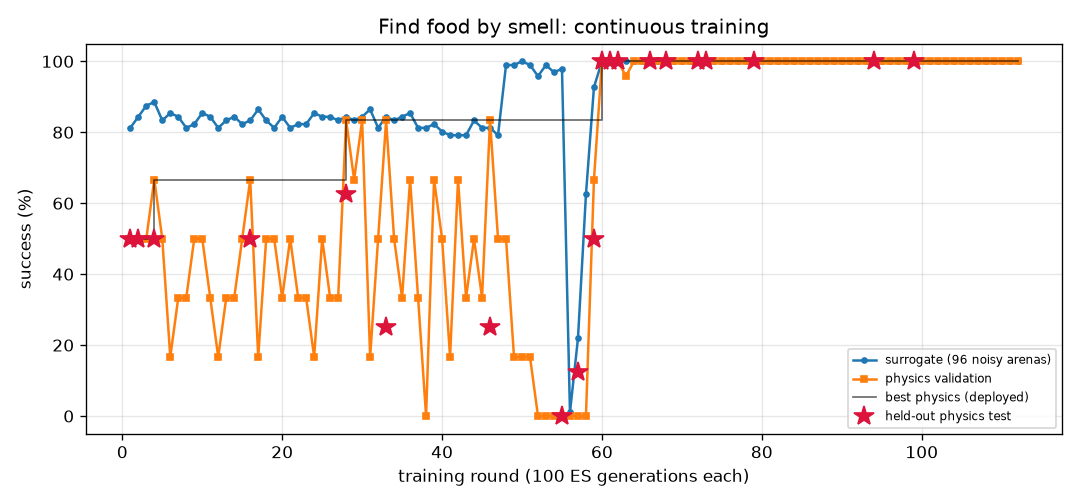
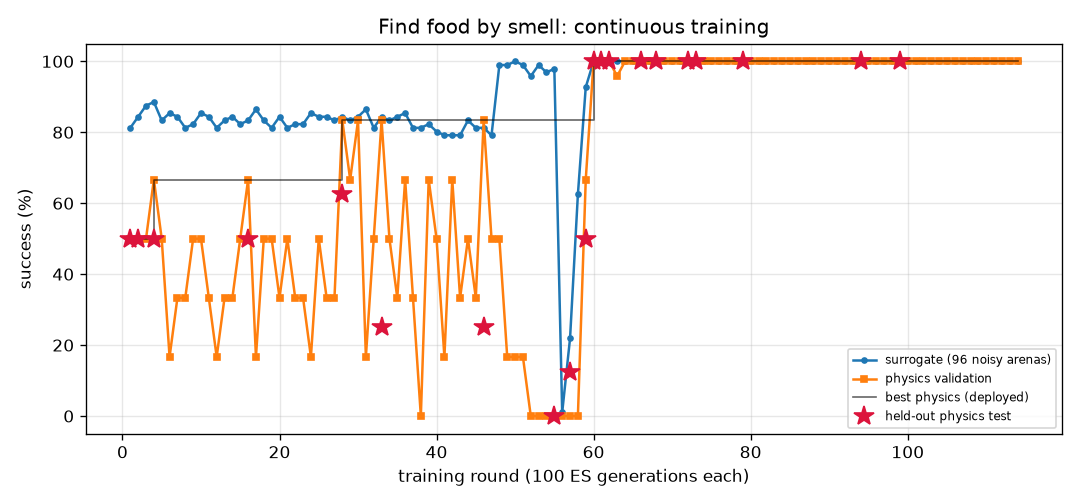
FlyLab: continuous training progress
- walk_forward: optimal, physics val 100% of 24, round 130
- turn: optimal, physics val 100% of 24, round 560
- goto: optimal, physics val 100% of 24, round 121
- odor_seek: optimal, physics val 100% of 24, round 114
- odor_avoid: optimal, physics val 100% of 24, round 548
- light_seek: optimal, physics val 100% of 24, round 306
- light_avoid: optimal, physics val 100% of 24, round 276

diff --git a/projects/09_flylab/training/turn/REPORT.md b/projects/09_flylab/training/turn/REPORT.md
@@ -1,14 +1,14 @@
 # Turn in place (`turn`) — training report
 
-*Auto-generated by `train_brains.py`, last updated 2026-10-20T11:18:12.*
+*Auto-generated by `train_brains.py`, last updated 2026-10-20T12:17:07.*
 
 ![curve](curve.png)
 
 | | |
 |---|---|
-| rounds | 547 |
-| ES generations | 54700 |
-| physics runs | 13374 |
+| rounds | 560 |
+| ES generations | 56000 |
+| physics runs | 13686 |
 | status | **optimal** |
 | best brain | round 80: physics validation **100%** on 24 arenas, surrogate 100% |
 | held-out physics test | **97%** on 32 unseen arenas (95% CI 84%-99%) (errors: [1.6, 3.3, 6.3, 3.7, 1.1, 0.4, 2.4, 2.9, 0.1, 2.6, 0.5, 2.7, 1.5, 3.1, 4.5, 0.2, 0.5, 1.1, 2.0, 4.4, 2.8, 3.2, 0.3, 2.2, 0.5, 3.0, 0.3, 5.4, 0.4, 1.0, 4.7, 10.7]) |
@@ -17,19 +17,6 @@ Physics error per arena: deg from target heading (< 20 = success).
 
 | round | level | gens | sigma | surrogate | physics val | val errors | test | note |
 |---:|---:|---:|---:|---:|---:|---|---:|---|
-| 508 | 3 | 50800 | 0.025 | 98% | 96% | [8.1, 8.7, 0.0, 1.2, 8.3, 1.6, 4.7, 1.0, 2.8, 1.9, 3.9, 1.1, 3.5, 2.8, 2.8, 2.2, 0.6, 1.2, 2.2, 2.0, 5.5, 0.6, 2.4, 3.8] |  | restart from best |
-| 509 | 3 | 50900 | 0.024 | 98% | 75% | [8.0, 9.3, 3.4, 0.7, 2.4, 2.1, 4.0, 1.5, 3.5, 0.1, 3.6, 2.3, 1.3, 1.6, 2.6, 1.3, 2.2, 0.3, 1.8, 2.8, 7.2, 0.4, 2.9, 3.6] |  |  |
-| 510 | 3 | 51000 | 0.025 | 100% | 83% | [6.0, 2.8, 1.4, 0.4, 2.9, 2.6, 5.9, 4.5, 5.9, 14.9, 4.1, 0.4, 0.8, 0.9, 4.3, 1.9, 0.8, 2.2, 2.3, 2.2, 3.5, 1.0, 5.7, 5.2] |  |  |
-| 511 | 3 | 51100 | 0.024 | 100% | 88% | [4.6, 4.7, 2.6, 1.1, 5.2, 0.3, 4.0, 1.8, 5.1, 1.2, 3.8, 3.0, 0.6, 0.5, 4.1, 1.0, 1.0, 0.8, 1.4, 0.6, 4.4, 0.6, 4.9, 6.1] |  |  |
-| 512 | 3 | 51200 | 0.024 | 100% | 83% | [7.0, 3.2, 1.2, 2.8, 4.8, 0.8, 4.5, 8.4, 5.8, 1.2, 5.8, 0.4, 1.9, 0.1, 4.0, 1.0, 0.4, 0.4, 3.9, 6.3, 2.9, 2.6, 6.0, 7.2] |  | restart from best |
-| 513 | 3 | 51300 | 0.024 | 98% | 75% | [2.3, 1.2, 8.3, 0.6, 15.8, 0.4, 5.4, 8.7, 6.4, 1.0, 4.7, 0.6, 1.9, 2.2, 4.6, 4.9, 0.6, 3.7, 13.6, 11.4, 4.5, 1.4, 4.6, 9.3] |  |  |
-| 514 | 3 | 51400 | 0.025 | 99% | 100% | [5.2, 7.3, 5.9, 1.5, 0.7, 1.1, 5.8, 4.1, 5.2, 1.6, 2.9, 0.5, 2.7, 3.1, 3.5, 1.6, 0.2, 1.6, 1.0, 2.3, 3.4, 1.2, 4.8, 1.9] |  |  |
-| 515 | 3 | 51500 | 0.025 | 99% | 75% | [7.1, 8.0, 0.4, 0.7, 5.6, 2.4, 3.9, 3.1, 4.8, 0.4, 5.5, 2.5, 0.6, 0.0, 5.1, 0.1, 1.8, 1.2, 0.7, 0.3, 6.6, 1.1, 4.7, 5.3] |  |  |
-| 516 | 3 | 51600 | 0.025 | 100% | 79% | [5.6, 2.8, 2.0, 0.5, 11.2, 0.8, 5.7, 7.4, 6.2, 1.9, 4.6, 1.1, 1.3, 1.8, 3.8, 10.8, 0.6, 1.3, 8.6, 1.8, 4.3, 1.7, 5.1, 2.3] |  | restart from best |
-| 517 | 3 | 51700 | 0.024 | 99% | 71% | [7.7, 0.4, 7.2, 1.7, 4.6, 1.9, 5.9, 0.3, 7.5, 0.3, 5.7, 0.3, 2.1, 2.8, 4.9, 13.3, 0.0, 4.5, 0.3, 0.2, 4.5, 0.5, 5.3, 7.3] |  |  |
-| 518 | 3 | 51800 | 0.025 | 99% | 88% | [5.4, 8.8, 4.6, 4.1, 2.7, 3.6, 4.2, 3.8, 3.4, 0.6, 3.6, 1.6, 3.3, 2.5, 3.3, 1.4, 1.8, 0.3, 0.2, 0.2, 4.1, 0.5, 4.2, 5.4] |  |  |
-| 519 | 3 | 51900 | 0.025 | 99% | 100% | [8.5, 8.7, 8.6, 4.3, 2.3, 2.6, 1.6, 0.4, 3.0, 0.1, 1.9, 2.5, 4.9, 3.1, 2.1, 3.5, 2.8, 3.9, 3.0, 2.8, 5.6, 1.3, 2.7, 2.7] |  |  |
-| 520 | 3 | 52000 | 0.025 | 98% | 79% | [9.3, 11.3, 9.4, 2.7, 2.4, 1.0, 2.8, 4.3, 3.5, 1.0, 1.5, 3.6, 1.2, 4.2, 0.9, 2.8, 3.5, 1.8, 1.8, 3.0, 7.6, 0.6, 3.8, 3.0] |  | restart from best |
 | 521 | 3 | 52100 | 0.024 | 99% | 71% | [0.3, 1.2, 6.0, 0.3, 3.2, 118.3, 7.4, 9.8, 7.2, 1.4, 4.9, 2.0, 1.1, 1.1, 6.5, 1.6, 2.1, 3.0, 1.0, 1.9, 0.8, 2.4, 5.8, 5.2] |  |  |
 | 522 | 3 | 52200 | 0.025 | 99% | 100% | [6.1, 8.1, 1.0, 0.9, 4.5, 0.7, 2.5, 2.1, 3.5, 0.1, 2.3, 0.4, 3.0, 2.2, 3.2, 1.1, 0.1, 0.8, 0.6, 1.8, 3.7, 0.5, 5.6, 2.6] |  |  |
 | 523 | 3 | 52300 | 0.025 | 99% | 83% | [3.4, 9.0, 2.2, 3.1, 4.8, 1.3, 5.2, 1.5, 3.4, 1.5, 4.4, 0.7, 1.8, 3.6, 4.3, 1.6, 0.8, 1.4, 1.8, 1.0, 5.0, 0.4, 3.0, 3.8] |  |  |
@@ -57,3 +44,16 @@ Physics error per arena: deg from target heading (< 20 = success).
 | 545 | 3 | 54500 | 0.024 | 99% | 88% | [6.3, 2.0, 1.9, 1.2, 1.6, 11.4, 5.6, 5.2, 4.7, 1.9, 3.6, 0.6, 0.4, 2.2, 3.4, 2.7, 0.4, 1.4, 1.3, 1.7, 5.3, 2.0, 5.2, 3.6] |  |  |
 | 546 | 3 | 54600 | 0.025 | 98% | 75% | [9.2, 5.9, 3.5, 1.6, 2.0, 1.3, 5.0, 1.4, 3.6, 0.8, 4.8, 1.2, 1.1, 3.4, 3.3, 2.0, 0.8, 1.5, 2.0, 3.5, 4.7, 0.2, 3.9, 4.8] |  |  |
 | 547 | 3 | 54700 | 0.025 | 99% | 92% | [5.7, 1.5, 5.7, 0.9, 0.4, 10.5, 6.3, 7.0, 6.2, 2.0, 4.9, 1.8, 0.2, 5.1, 4.0, 1.0, 1.7, 1.9, 1.1, 1.1, 2.2, 2.1, 6.7, 7.3] |  |  |
+| 548 | 3 | 54800 | 0.025 | 99% | 83% | [3.6, 1.2, 5.1, 0.3, 0.7, 1.9, 7.1, 7.3, 7.7, 1.9, 4.8, 3.0, 0.4, 0.4, 3.6, 3.9, 3.0, 4.6, 3.9, 2.4, 8.2, 3.0, 5.4, 9.2] |  | restart from best |
+| 549 | 3 | 54900 | 0.024 | 100% | 79% | [4.8, 3.3, 5.0, 0.2, 18.7, 1.6, 6.0, 9.0, 3.7, 0.4, 4.9, 0.3, 0.4, 3.3, 5.2, 11.7, 0.1, 2.2, 7.6, 4.5, 2.4, 1.1, 5.3, 6.6] |  |  |
+| 550 | 3 | 55000 | 0.024 | 100% | 88% | [8.2, 10.8, 9.9, 4.2, 3.0, 0.3, 3.6, 0.3, 3.3, 1.8, 2.3, 3.2, 3.5, 2.7, 3.3, 2.7, 3.5, 2.2, 1.7, 3.1, 7.4, 1.0, 2.3, 1.9] |  |  |
+| 551 | 3 | 55100 | 0.024 | 99% | 79% | [9.8, 9.2, 0.2, 1.5, 1.3, 2.0, 3.5, 4.0, 4.9, 0.5, 4.1, 3.5, 2.1, 4.6, 3.2, 1.9, 0.0, 0.9, 1.3, 1.1, 8.1, 2.3, 2.9, 4.6] |  |  |
+| 552 | 3 | 55200 | 0.025 | 99% | 75% | [0.5, 7.8, 0.3, 1.2, 1.1, 0.8, 5.4, 7.5, 6.1, 0.8, 3.9, 1.3, 1.6, 1.3, 3.6, 0.6, 0.3, 0.5, 1.0, 0.6, 5.2, 3.2, 5.2, 1.9] |  | restart from best |
+| 553 | 3 | 55300 | 0.024 | 99% | 71% | [7.9, 7.7, 0.7, 2.6, 2.6, 0.6, 5.4, 3.7, 4.6, 1.0, 4.4, 1.7, 1.9, 3.3, 4.2, 1.7, 2.8, 1.8, 1.9, 0.5, 4.4, 0.7, 4.4, 4.9] |  |  |
+| 554 | 3 | 55400 | 0.025 | 99% | 83% | [4.1, 7.6, 4.6, 2.5, 1.2, 3.7, 4.4, 2.2, 5.8, 0.2, 4.3, 1.0, 3.2, 4.0, 3.8, 2.3, 0.7, 1.8, 3.0, 1.9, 4.4, 0.2, 5.8, 2.7] |  |  |
+| 555 | 3 | 55500 | 0.025 | 99% | 88% | [8.8, 10.0, 2.3, 4.2, 2.2, 3.5, 3.3, 0.8, 2.0, 1.8, 3.1, 3.2, 2.8, 5.6, 2.6, 1.1, 3.0, 1.3, 0.4, 1.8, 5.6, 0.5, 3.3, 2.6] |  |  |
+| 556 | 3 | 55600 | 0.025 | 99% | 75% | [5.5, 7.0, 0.4, 2.1, 3.3, 1.6, 2.4, 0.2, 4.0, 1.3, 2.8, 1.5, 3.7, 3.8, 3.1, 1.9, 1.8, 0.2, 2.1, 0.8, 7.5, 0.7, 4.6, 3.8] |  | restart from best |
+| 557 | 3 | 55700 | 0.024 | 99% | 100% | [5.7, 9.7, 1.0, 2.6, 2.0, 2.3, 1.7, 1.5, 3.2, 1.4, 1.6, 1.9, 0.2, 4.7, 1.1, 2.9, 2.1, 2.7, 2.6, 2.8, 4.6, 0.2, 0.5, 0.8] |  |  |
+| 558 | 3 | 55800 | 0.025 | 99% | 88% | [2.9, 3.0, 7.0, 0.4, 16.1, 0.9, 8.3, 8.4, 7.7, 3.1, 5.1, 4.5, 0.7, 0.7, 4.8, 14.3, 4.8, 3.0, 8.6, 13.3, 1.6, 4.2, 7.3, 5.9] |  |  |
+| 559 | 3 | 55900 | 0.025 | 99% | 88% | [7.3, 3.4, 7.5, 3.0, 4.3, 0.2, 4.5, 6.0, 3.3, 0.0, 5.1, 1.1, 2.4, 0.7, 2.9, 0.5, 1.6, 2.1, 0.8, 1.9, 6.5, 3.9, 5.6, 6.5] |  |  |
+| 560 | 3 | 56000 | 0.025 | 99% | 83% | [1.2, 1.7, 1.4, 1.7, 1.6, 1.4, 6.5, 8.6, 5.4, 4.0, 4.2, 3.5, 4.4, 0.6, 5.5, 11.8, 3.8, 2.5, 2.1, 2.0, 3.4, 2.3, 6.5, 5.7] |  | restart from best |

diff --git a/projects/09_flylab/training/odor_avoid/REPORT.md b/projects/09_flylab/training/odor_avoid/REPORT.md
@@ -1,14 +1,14 @@
 # Escape a bad smell (`odor_avoid`) — training report
 
-*Auto-generated by `train_brains.py`, last updated 2026-10-20T09:00:18.*
+*Auto-generated by `train_brains.py`, last updated 2026-10-20T12:12:38.*
 
 ![curve](curve.png)
 
 | | |
 |---|---|
-| rounds | 542 |
-| ES generations | 54200 |
-| physics runs | 10314 |
+| rounds | 548 |
+| ES generations | 54800 |
+| physics runs | 10458 |
 | status | **optimal** |
 | best brain | round 373: physics validation **100%** on 24 arenas, surrogate 97% |
 | held-out physics test | **97%** on 32 unseen arenas (95% CI 84%-99%) (errors: [62.0, 57.4, 62.6, 61.9, 59.0, 61.6, 56.5, 60.7, 31.7, 60.9, 63.1, 57.1, 61.1, 62.1, 61.5, 60.2, 62.2, 55.2, 62.1, 54.2, 61.3, 62.0, 58.0, 61.9, 59.8, 56.5, 56.3, 56.4, 56.3, 57.7, 61.9, 32.4]) |
@@ -17,12 +17,6 @@ Physics error per arena: mm gained away from source (> 6 without first approachi
 
 | round | level | gens | sigma | surrogate | physics val | val errors | test | note |
 |---:|---:|---:|---:|---:|---:|---|---:|---|
-| 503 | 3 | 50300 | 0.026 | 97% | 96% | [63.4, 57.7, 57.0, 61.3, 61.8, 60.7, 62.1, 48.0, 59.9, 60.3, 61.8, 62.0, 54.8, 58.6, 41.4, 62.7, 61.8, 62.3, 55.3, 57.1, 62.5, 60.3, 58.1, 60.0] |  |  |
-| 504 | 3 | 50400 | 0.026 | 94% | 96% | [63.8, 56.0, 55.9, 61.1, 62.4, 62.0, 61.8, 54.0, 60.8, 51.5, 61.0, 61.0, 51.9, 55.3, 32.9, 60.7, 61.9, 61.7, 54.7, 56.1, 61.2, 60.5, 61.3, 48.7] |  |  |
-| 505 | 3 | 50500 | 0.028 | 95% | 96% | [63.1, 61.3, 55.1, 61.0, 61.8, 60.1, 62.1, 31.0, 60.0, 40.5, 56.3, 61.6, 48.2, 55.3, 36.2, 60.4, 62.1, 58.2, 52.0, 55.6, 61.4, 50.0, 61.1, 44.9] |  | restart from best |
-| 506 | 3 | 50600 | 0.026 | 97% | 96% | [62.7, 60.9, 56.0, 61.6, 61.8, 62.3, 60.7, 62.8, 61.9, 54.9, 34.5, 61.5, 47.5, 54.9, 30.0, 61.5, 62.0, 61.4, 51.9, 58.0, 61.5, 62.9, 60.0, 63.1] |  |  |
-| 507 | 3 | 50700 | 0.026 | 95% | 100% | [62.9, 61.3, 56.0, 61.2, 61.2, 61.8, 61.7, 62.6, 61.7, 60.1, 53.5, 61.5, 52.2, 55.5, 29.4, 62.3, 62.1, 61.2, 53.2, 61.1, 62.2, 62.2, 60.4, 62.6] |  |  |
-| 508 | 3 | 50800 | 0.027 | 97% | 100% | [63.5, 61.2, 56.1, 59.3, 62.3, 63.1, 61.8, 62.1, 61.1, 62.6, 62.3, 62.3, 54.1, 56.1, 48.6, 62.5, 62.2, 63.0, 55.4, 60.9, 62.1, 63.1, 58.6, 62.5] |  |  |
 | 509 | 3 | 50900 | 0.026 | 96% | 100% | [62.1, 60.2, 55.8, 60.2, 62.2, 62.2, 62.1, 44.2, 62.0, 61.3, 62.1, 62.3, 55.2, 55.9, 51.7, 61.7, 62.6, 61.5, 55.0, 55.2, 62.1, 62.8, 59.8, 61.9] |  | restart from best |
 | 510 | 3 | 51000 | 0.026 | 95% | 100% | [62.7, 60.9, 57.0, 61.5, 42.3, 59.6, 61.0, 35.8, 60.5, 28.2, 23.0, 61.2, 52.0, 55.4, 41.4, 59.1, 61.1, 48.0, 50.2, 56.2, 61.3, 37.5, 61.1, 59.0] |  |  |
 | 511 | 3 | 51100 | 0.027 | 97% | 100% | [63.5, 61.2, 58.1, 58.6, 61.1, 62.4, 61.6, 31.4, 60.8, 61.5, 61.5, 61.7, 54.6, 58.4, 46.3, 62.0, 61.4, 62.2, 54.8, 57.7, 61.5, 53.6, 58.4, 49.3] |  |  |
@@ -57,3 +51,9 @@ Physics error per arena: mm gained away from source (> 6 without first approachi
 | 540 | 3 | 54000 | 0.026 | 93% | 96% | [61.6, 60.3, 55.8, 59.6, 60.8, 61.7, 60.6, 29.0, 61.8, 43.6, 59.5, 61.5, 51.6, 56.8, 32.6, 62.2, 61.8, 62.1, 54.6, 59.3, 62.0, 61.2, 59.6, 62.4] |  |  |
 | 541 | 3 | 54100 | 0.028 | 98% | 96% | [60.9, 59.7, 56.0, 58.7, 61.0, 60.6, 61.5, 12.9, 61.3, 45.7, 59.1, 61.2, 51.6, 55.5, 35.1, 60.6, 61.5, 57.5, 55.0, 56.5, 61.8, 59.5, 58.8, 32.4] |  | restart from best |
 | 542 | 3 | 54200 | 0.026 | 95% | 96% | [61.8, 60.5, 57.7, 60.0, 61.1, 62.4, 62.1, 57.2, 62.2, 60.4, 61.1, 60.8, 52.0, 55.3, 44.1, 61.7, 61.5, 62.3, 54.7, 60.1, 61.5, 61.9, 57.5, 62.4] |  |  |
+| 543 | 3 | 54300 | 0.027 | 94% | 96% | [62.7, 59.6, 58.1, 59.9, 62.5, 61.7, 60.3, 60.8, 61.9, 61.2, 62.1, 61.8, 55.2, 57.9, 52.0, 62.1, 62.1, 61.7, 55.1, 57.3, 62.3, 62.2, 59.8, 62.1] |  |  |
+| 544 | 3 | 54400 | 0.028 | 94% | 100% | [61.1, 57.5, 56.0, 57.0, 60.2, 62.1, 61.4, 52.2, 62.0, 60.0, 60.0, 61.8, 51.7, 56.2, 46.4, 61.7, 61.7, 62.3, 54.9, 58.6, 62.0, 55.3, 59.3, 49.3] |  |  |
+| 545 | 3 | 54500 | 0.028 | 94% | 96% | [61.6, 58.9, 56.0, 60.7, 61.4, 60.3, 61.7, 43.9, 61.9, 60.3, 61.4, 61.9, 52.3, 56.4, 39.2, 61.9, 62.3, 60.3, 54.9, 56.7, 61.9, 61.0, 59.5, 56.9] |  | restart from best |
+| 546 | 3 | 54600 | 0.026 | 97% | 96% | [63.2, 58.0, 56.0, 59.3, 62.1, 60.4, 61.8, 15.0, 60.4, 58.5, 62.1, 62.1, 54.4, 56.0, 45.0, 61.7, 62.3, 61.3, 55.0, 56.2, 62.0, 59.7, 57.9, 54.9] |  |  |
+| 547 | 3 | 54700 | 0.026 | 94% | 96% | [59.8, 56.5, 55.8, 56.5, 60.0, 60.7, 60.7, 24.4, 60.9, 36.8, 18.5, 60.6, 50.2, 55.4, 38.4, 59.3, 60.9, 60.4, 52.6, 59.1, 61.0, 46.8, 58.6, 56.7] |  |  |
+| 548 | 3 | 54800 | 0.028 | 95% | 96% | [60.8, 60.3, 56.3, 57.0, 46.6, 52.7, 61.5, 57.5, 61.5, 30.6, 13.9, 60.8, 50.6, 55.5, 15.6, 57.2, 61.2, 49.0, 49.6, 59.4, 61.2, 59.2, 60.3, 58.4] |  |  |

diff --git a/projects/09_flylab/training/odor_seek/REPORT.md b/projects/09_flylab/training/odor_seek/REPORT.md
@@ -1,14 +1,14 @@
 # Find food by smell (`odor_seek`) — training report
 
-*Auto-generated by `train_brains.py`, last updated 2026-10-20T11:15:04.*
+*Auto-generated by `train_brains.py`, last updated 2026-10-20T11:37:48.*
 
 ![curve](curve.png)
 
 | | |
 |---|---|
-| rounds | 112 |
-| ES generations | 11200 |
-| physics runs | 2054 |
+| rounds | 114 |
+| ES generations | 11400 |
+| physics runs | 2102 |
 | status | **optimal** |
 | best brain | round 99: physics validation **100%** on 24 arenas, surrogate 100% |
 | held-out physics test | **100%** on 32 unseen arenas (95% CI 89%-100%) (errors: [0.16, 0.18, 0.15, 0.21, 0.19, 0.16, 0.21, 0.2, 0.2, 0.18, 0.15, 0.18, 0.15, 0.2, 0.18, 0.19, 0.13, 0.16, 0.2, 0.2, 0.21, 0.15, 0.2, 0.17, 0.19, 0.25, 0.15, 0.19, 0.26, 0.16, 0.2, 0.26]) |
@@ -17,8 +17,6 @@ Physics error per arena: mm from target at the end (< 1.5 and standing still = s
 
 | round | level | gens | sigma | surrogate | physics val | val errors | test | note |
 |---:|---:|---:|---:|---:|---:|---|---:|---|
-| 73 | 3 | 7300 | 0.024 | 100% | 100% | [0.26, 0.23, 0.22, 0.21, 0.26, 0.26, 0.2, 0.14, 0.22, 0.2, 0.18, 0.17, 0.23, 0.28, 0.21, 0.21, 0.19, 0.25, 0.26, 0.19, 0.2, 0.25, 0.24, 0.29] | 100% | new best |
-| 74 | 3 | 7400 | 0.024 | 100% | 100% | [0.23, 0.21, 0.23, 0.18, 0.21, 0.2, 0.2, 0.19, 0.19, 0.16, 0.19, 0.2, 0.18, 0.22, 0.14, 0.16, 0.15, 0.18, 0.17, 0.15, 0.25, 0.21, 0.18, 0.18] |  |  |
 | 75 | 3 | 7500 | 0.024 | 100% | 100% | [0.19, 0.21, 0.29, 0.28, 0.23, 0.27, 0.19, 0.19, 0.23, 0.2, 0.26, 0.24, 0.3, 0.31, 0.2, 0.27, 0.3, 0.29, 0.19, 0.23, 0.19, 0.3, 0.25, 0.23] |  |  |
 | 76 | 3 | 7600 | 0.024 | 100% | 100% | [0.22, 0.23, 0.22, 0.2, 0.27, 0.25, 0.21, 0.24, 0.21, 0.23, 0.25, 0.23, 0.26, 0.2, 0.2, 0.22, 0.23, 0.24, 0.23, 0.2, 0.26, 0.21, 0.19, 0.2] |  |  |
 | 77 | 3 | 7700 | 0.024 | 100% | 100% | [0.23, 0.29, 0.22, 0.21, 0.31, 0.23, 0.23, 0.22, 0.28, 0.26, 0.18, 0.24, 0.81, 0.24, 0.25, 0.3, 0.27, 0.24, 0.22, 0.27, 0.22, 0.26, 0.21, 0.24] |  | restart from best |
@@ -57,3 +55,5 @@ Physics error per arena: mm from target at the end (< 1.5 and standing still = s
 | 110 | 3 | 11000 | 0.024 | 100% | 100% | [0.23, 0.26, 0.24, 0.27, 0.23, 0.29, 0.29, 0.24, 0.27, 0.26, 0.19, 0.19, 0.24, 0.31, 0.26, 0.21, 0.22, 0.29, 0.19, 0.21, 0.31, 0.31, 0.22, 0.25] |  |  |
 | 111 | 3 | 11100 | 0.024 | 100% | 100% | [0.24, 0.31, 0.18, 0.2, 0.18, 0.25, 0.28, 0.22, 0.25, 0.21, 0.23, 0.25, 0.23, 0.25, 0.3, 0.21, 0.23, 0.23, 0.22, 0.23, 0.24, 0.22, 0.21, 0.29] |  | restart from best |
 | 112 | 3 | 11200 | 0.024 | 100% | 100% | [0.18, 0.24, 0.17, 0.16, 0.22, 0.19, 0.17, 0.21, 0.24, 0.22, 0.16, 0.16, 0.15, 0.18, 0.17, 0.24, 0.16, 0.23, 0.18, 0.2, 0.21, 0.2, 0.18, 0.17] |  |  |
+| 113 | 3 | 11300 | 0.024 | 100% | 100% | [0.22, 0.22, 0.19, 0.25, 0.3, 0.28, 0.26, 0.19, 0.28, 0.21, 0.23, 0.26, 0.23, 0.28, 0.21, 0.27, 0.25, 0.19, 0.25, 0.25, 0.2, 0.23, 0.27, 0.23] |  |  |
+| 114 | 3 | 11400 | 0.024 | 100% | 100% | [0.21, 0.29, 0.2, 0.22, 0.18, 0.24, 0.18, 0.23, 0.18, 0.24, 0.16, 0.28, 0.19, 0.25, 0.23, 0.22, 0.2, 0.17, 0.25, 0.19, 0.16, 0.19, 0.2, 0.15] |  |  |

diff --git a/projects/09_flylab/training/TRAINING.md b/projects/09_flylab/training/TRAINING.md
@@ -1,15 +1,15 @@
 # FlyLab brains — continuous training log
 
-*Auto-generated by `train_brains.py`, last updated 2026-10-20T11:18:12.*
+*Auto-generated by `train_brains.py`, last updated 2026-10-20T12:17:07.*
 
 Every skill has its own brain and its own training process: surrogate ES rounds, physics validation in MuJoCo, keep-the-best selection, and a held-out physics test that is never used for selection. See each skill's report for its full round-by-round history. Mastery is progressive: passing a level (100% physics validation, >=95% surrogate) doubles the validation and test arena sets; a brain is **optimal** once it holds up at level 3 (>=95% of 24 validation arenas) AND scores >=90% on the 32 held-out test arenas. Test columns show 95% Wilson confidence intervals.
 
 | skill | rounds | ES generations | physics runs | surrogate | physics val | **physics test** | status |
 |---|---:|---:|---:|---:|---:|---:|---|
 | [Walk forward](walk_forward/REPORT.md) | 130 | 13000 | 3134 | 100% | 100% of 24 | 100% of 32 (CI 89-100%) | **optimal** |
-| [Turn in place](turn/REPORT.md) | 547 | 54700 | 13374 | 100% | 100% of 24 | 97% of 32 (CI 84-99%) | **optimal** |
+| [Turn in place](turn/REPORT.md) | 560 | 56000 | 13686 | 100% | 100% of 24 | 97% of 32 (CI 84-99%) | **optimal** |
 | [Go to a location](goto/REPORT.md) | 121 | 12100 | 2790 | 100% | 100% of 24 | 100% of 32 (CI 89-100%) | **optimal** |
-| [Find food by smell](odor_seek/REPORT.md) | 112 | 11200 | 2054 | 100% | 100% of 24 | 100% of 32 (CI 89-100%) | **optimal** |
-| [Escape a bad smell](odor_avoid/REPORT.md) | 542 | 54200 | 10314 | 97% | 100% of 24 | 97% of 32 (CI 84-99%) | **optimal** |
+| [Find food by smell](odor_seek/REPORT.md) | 114 | 11400 | 2102 | 100% | 100% of 24 | 100% of 32 (CI 89-100%) | **optimal** |
+| [Escape a bad smell](odor_avoid/REPORT.md) | 548 | 54800 | 10458 | 97% | 100% of 24 | 97% of 32 (CI 84-99%) | **optimal** |
 | [Walk toward light](light_seek/REPORT.md) | 306 | 30600 | 4192 | 100% | 100% of 24 | 100% of 32 (CI 89-100%) | **optimal** |
 | [Hide from light](light_avoid/REPORT.md) | 276 | 27600 | 6896 | 100% | 100% of 24 | 100% of 32 (CI 89-100%) | **optimal** |
